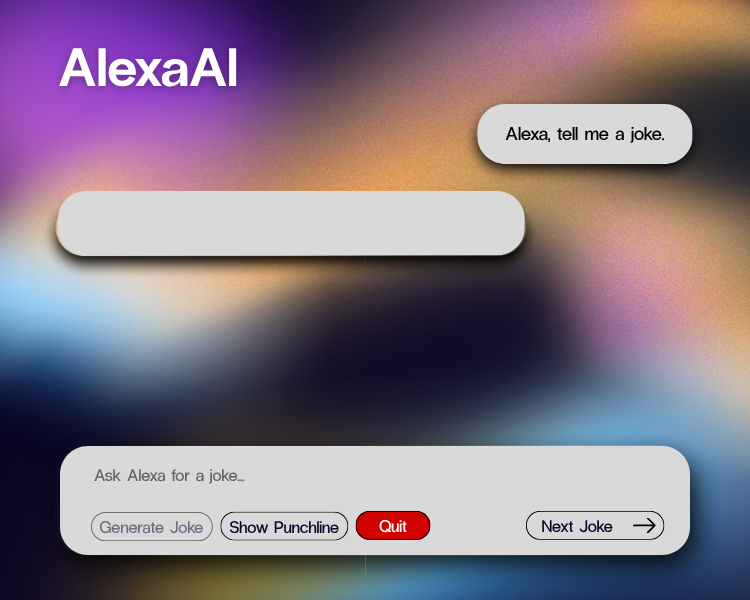
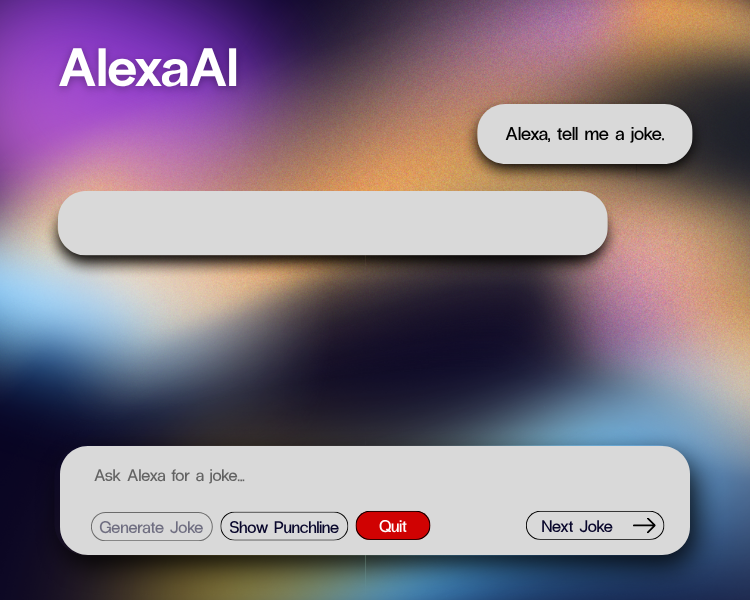
ex2 update 21
- created functions to handle the ai when there's no joke left
- edited the wraplength
- changed the images again

Changed region(s): [[0.6747, 0.3, 0.828, 0.45], [0.0613, 0.39, 0.092, 0.42]]

diff --git a/Assessment 1 - Skills Portfolio/Exercise 2 - Alexa Tell Me a Joke/AlexaTellMeAJoke.py b/Assessment 1 - Skills Portfolio/Exercise 2 - Alexa Tell Me a Joke/AlexaTellMeAJoke.py
@@ -55,9 +55,11 @@ class AlexaAI:
         self.root.resizable(0,0)
 
         # load jokes
-        self.jokes = [] # list to store the jokes
-        self.punchlines = [] # list to store the punchlines
-        self.load_jokes() # lad the jokes from randomJokes .txt
+        self.original_jokes = [] # store all jokes initially before getting used
+        self.original_punchlines = [] # store all punchlines initially before getting used
+        self.jokes = [] # list to store the available jokes
+        self.punchlines = [] # list to store the available punchlines
+        self.load_jokes() # load the jokes from randomJokes .txt
         
         # create frames
         self.current_joke_index = -1
@@ -83,8 +85,12 @@ class AlexaAI:
             if '?' in l:
                 data = l.split('?', 1) # split only on the first question mark
                 if len(data) == 2:
-                    self.jokes.append(data[0].strip())
-                    self.punchlines.append(data[1].strip().replace('\n', ''))
+                    self.original_jokes.append(data[0].strip())
+                    self.original_punchlines.append(data[1].strip().replace('\n', ''))
+    
+        # initialize available jokes with all jokes
+        self.jokes = self.original_jokes.copy()
+        self.punchlines = self.original_punchlines.copy()
     
     def setup_fonts(self):
         self.joke_font = ('Stack Sans Headline', 13)
@@ -134,7 +140,7 @@ class AlexaAI:
                                   bg='#d9d9d9', fg='black')
         self.thinking_lbl.place(x=90, y=207)
         
-        self.joke_lbl = Label(self.frames['bg3'], text='', wraplength=400,
+        self.joke_lbl = Label(self.frames['bg3'], text='', wraplength=500,
                                  font=self.joke_font, justify='left',
                                  bg='#d9d9d9', fg='black')
         self.joke_lbl.place(x=80, y=212)
@@ -160,17 +166,17 @@ class AlexaAI:
         
         # frame 4 (bg4) - Loading before punchline (no UI elements)
         self.joke_lbl_bg4 = Label(self.frames['bg4'], font=self.joke_font, 
-                              wraplength=400, justify='left', bg='#d9d9d9', fg='black')
+                              wraplength=500, justify='left', bg='#d9d9d9', fg='black')
         self.joke_lbl_bg4.place(x=80, y=212)
         
         # frame 5 (bg5)
         # copy the joke label to bg5 so it remains visible
         self.joke_lbl_bg5 = Label(self.frames['bg5'], font=self.joke_font, 
-                              wraplength=400, justify='left', bg='#d9d9d9', fg='black')
+                              wraplength=500, justify='left', bg='#d9d9d9', fg='black')
         self.joke_lbl_bg5.place(x=80, y=212)
         
         self.punchline_lbl = Label(self.frames['bg5'], text='', font=self.joke_font, 
-                                   wraplength=400, justify='left', bg='#d9d9d9', fg='black')
+                                   wraplength=500, justify='left', bg='#d9d9d9', fg='black')
         self.punchline_lbl.place(x=80, y=362)
         
         # Control buttons for frame 5
@@ -240,32 +246,66 @@ class AlexaAI:
     
     def show_joke_setup(self):
         # select random joke from the list
-        if self.jokes:
-            self.current_joke_index = random.randint(0, len(self.jokes) - 1)
-            joke_text = self.jokes[self.current_joke_index]
-            
-            # show joke setup in bg3
-            self.thinking_lbl.forget() # remove the thinking text
-            self.joke_lbl.config(text=joke_text + '?')
-            
-             # set the joke in bg4 and bg5 so they will remain shown
-            self.joke_lbl_bg4.config(text=joke_text + '?')
-            self.joke_lbl_bg5.config(text=joke_text + '?')
+        if not self.jokes:
+            self.handle_no_more_jokes()
+            return
+
+        # select random joke from available jokes list
+        self.current_joke_index = random.randint(0, len(self.jokes) - 1)
+        joke_text = self.jokes[self.current_joke_index]
+        
+        # show joke setup in bg3
+        self.thinking_lbl.forget() # remove the thinking text
+        self.joke_lbl.config(text=joke_text + '?')
+        
+        # set the joke in bg4 and bg5 so they will remain shown
+        self.joke_lbl_bg4.config(text=joke_text + '?')
+        self.joke_lbl_bg5.config(text=joke_text + '?')
+        
+        # store the current punchline before removing the joke
+        self.current_punchline = self.punchlines[self.current_joke_index]
+        
+        # remove the used joke immediately after selecting it
+        self.remove_used_joke()
     
     def show_punchline(self):
         # go to bg4 first
         self.show_frame('bg4')
         
-        # after 1.9 seconds, go to bg5 and show punchline
-        self.root.after(1900, self.reveal_punchline)
+        # after 1.3 seconds, go to bg5 and show punchline
+        self.root.after(1300, self.reveal_punchline)
             
+    def remove_used_joke(self):
+        if self.current_joke_index >= 0:
+            # remove used joke and punchline
+            del self.jokes[self.current_joke_index]
+            del self.punchlines[self.current_joke_index]
+            self.current_joke_index = -1        
+    
     def reveal_punchline(self):
         self.show_frame('bg5')
-        if self.current_joke_index >= 0 and self.punchlines:
-            punchline_text = self.punchlines[self.current_joke_index] # joke index will have the same index as punchline
-            self.punchline_lbl.config(text=punchline_text)
+        # use the stored punchline instead of accessing by index
+        if hasattr(self, 'current_punchline') and self.current_punchline:
+            self.punchline_lbl.config(text=self.current_punchline)
+            self.current_punchline = None # clear the stored punchline after use
+    
+    def handle_no_more_jokes(self):
+        # show message when no more jokes are available
+        self.thinking_lbl.forget()
+        self.joke_lbl.config(text='No more jokes available! Restart the app for more jokes.')
+        
+        # disable button since there's no punchline to show
+        self.punchline_btn.config(state=DISABLED)
+        
+        # disable next button
+        self.next_btn.config(state=DISABLED)
     
     def next_joke(self):
+        # check if there's still jokes available
+        if not self.jokes:
+            self.handle_no_more_jokes()
+            return
+        
         # go back to bg 2 and restart the cycle
         self.show_frame('bg2')
         self.root.after(1000, self.show_thinking_animation)
